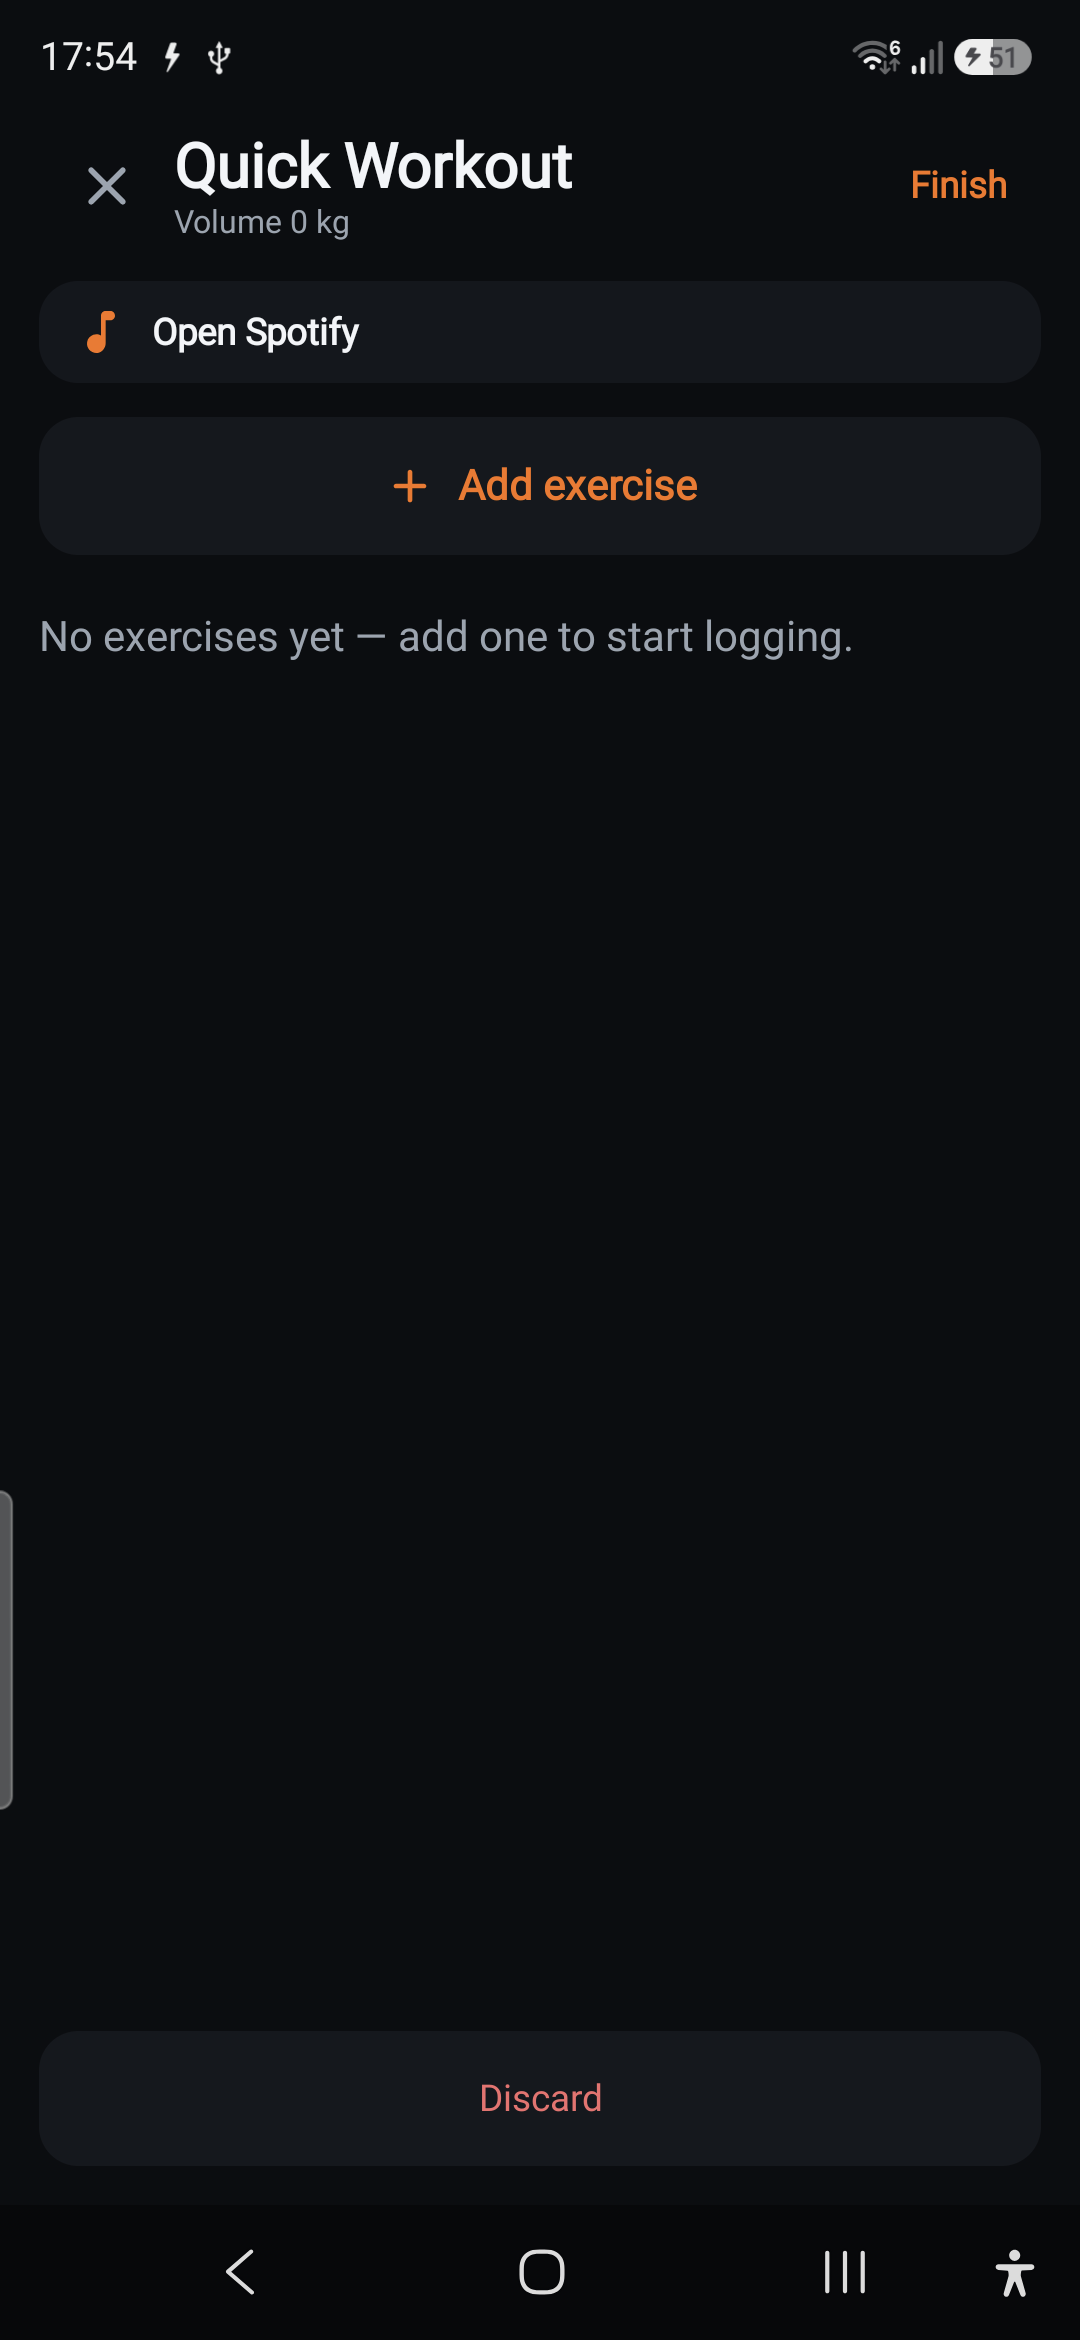
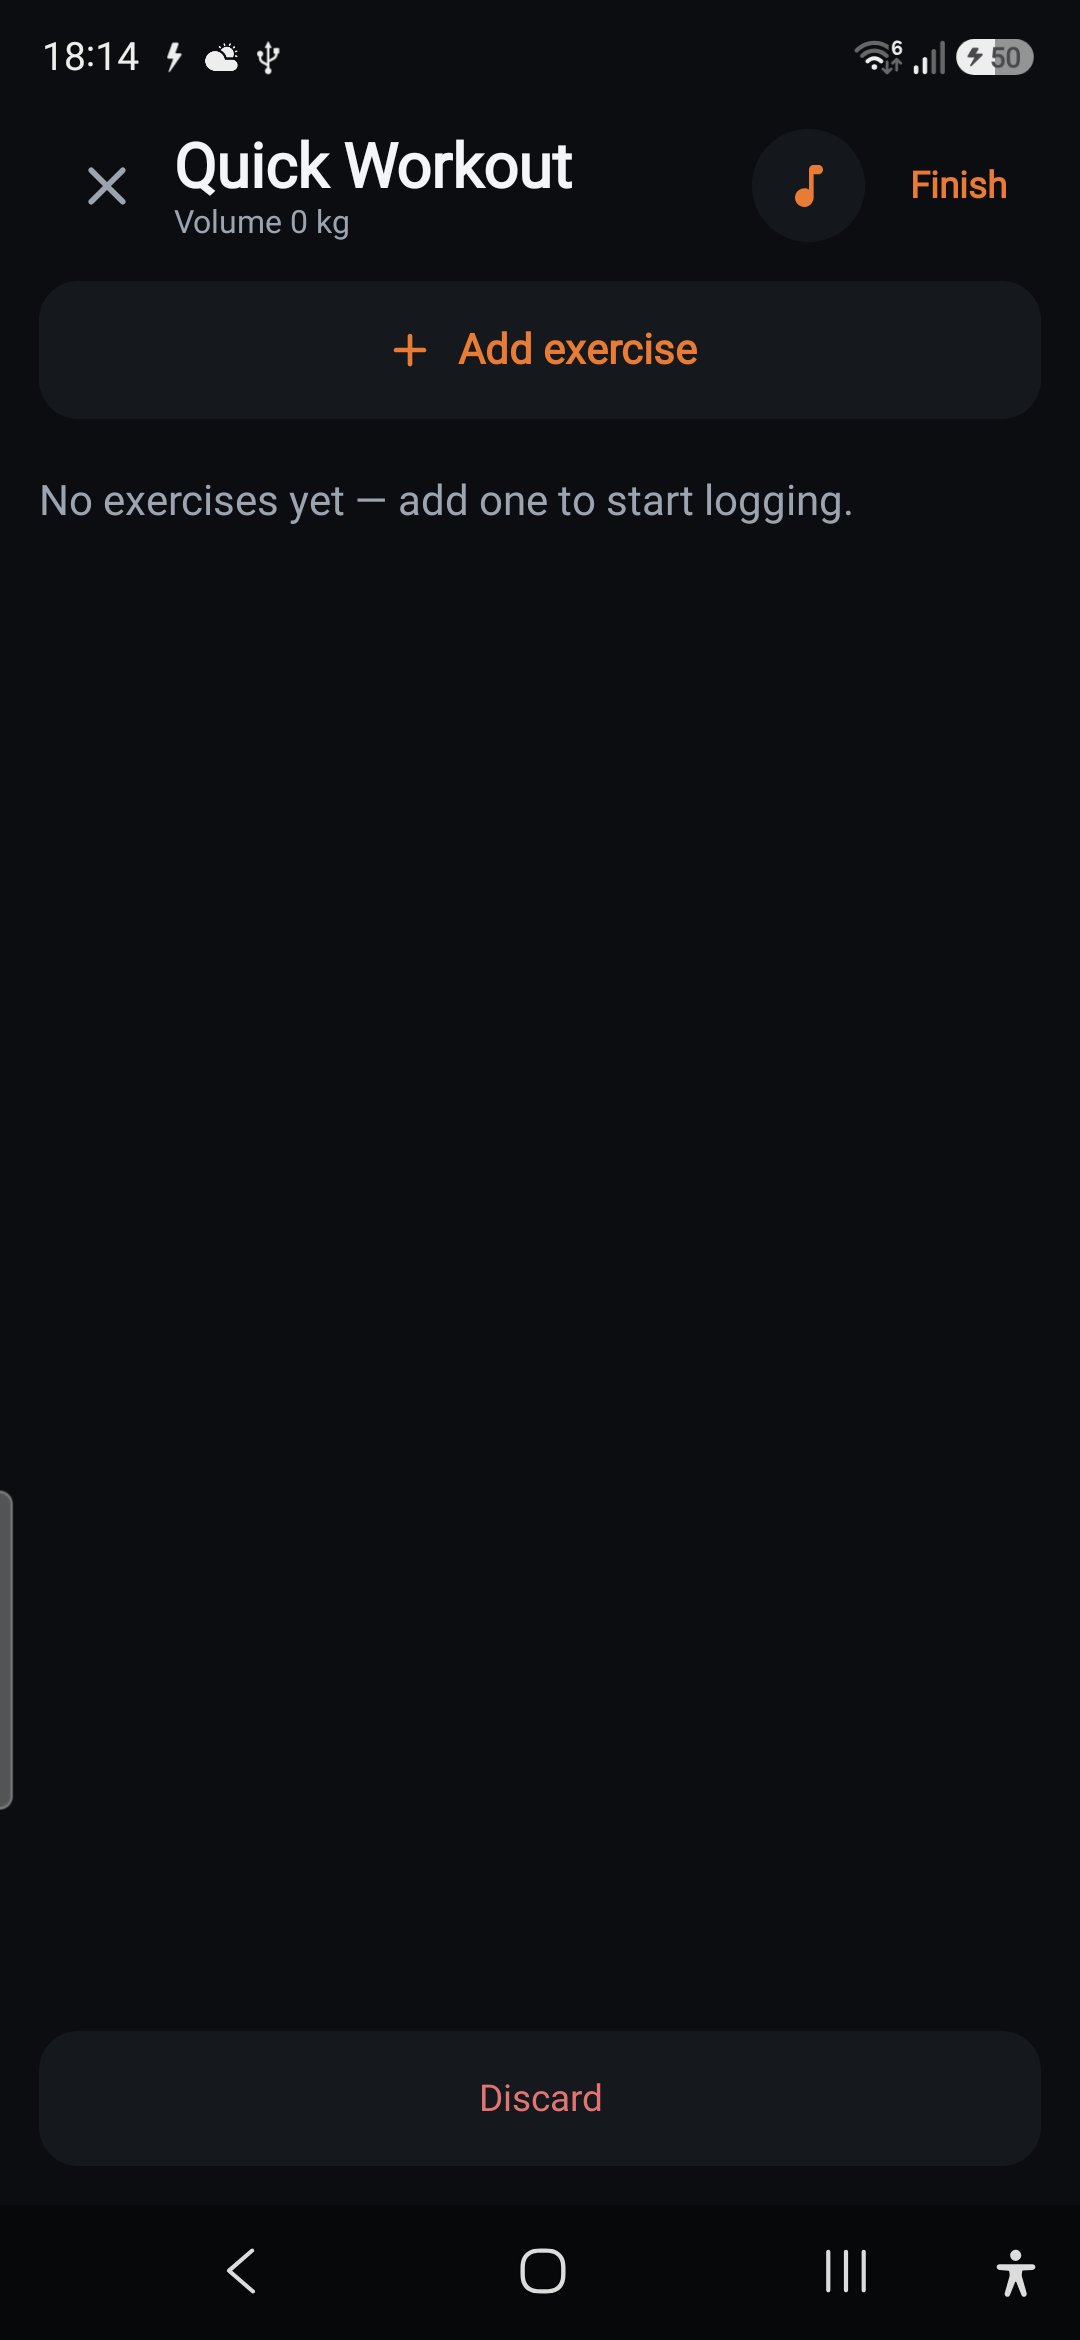
fix(run-mode): R4 — shrink the music control to a small side note button
Replace the full-width "Open Spotify" bar with a compact, icon-only round note
button placed on the side: right edge above the recenter control on the live run
screen, and in the top bar beside Finish on the live lift screen. The connected
(App Remote) state stays a compact prev/play-pause/next row. Same shared component
and controller; behaviour unchanged.

Verified on the A56 on both live screens; assembleDebug builds.

diff --git a/app/src/main/java/com/lukr99/workout/ui/components/MusicMiniControls.kt b/app/src/main/java/com/lukr99/workout/ui/components/MusicMiniControls.kt
@@ -3,9 +3,8 @@ package com.lukr99.workout.ui.components
 import androidx.compose.foundation.background
 import androidx.compose.foundation.clickable
 import androidx.compose.foundation.layout.Arrangement
+import androidx.compose.foundation.layout.Box
 import androidx.compose.foundation.layout.Row
-import androidx.compose.foundation.layout.Column
-import androidx.compose.foundation.layout.padding
 import androidx.compose.foundation.layout.size
 import androidx.compose.foundation.shape.CircleShape
 import androidx.compose.foundation.shape.RoundedCornerShape
@@ -17,7 +16,6 @@ import androidx.compose.material.icons.rounded.SkipNext
 import androidx.compose.material.icons.rounded.SkipPrevious
 import androidx.compose.material3.Icon
 import androidx.compose.material3.MaterialTheme
-import androidx.compose.material3.Text
 import androidx.compose.runtime.Composable
 import androidx.compose.runtime.CompositionLocalProvider
 import androidx.compose.runtime.DisposableEffect
@@ -30,8 +28,6 @@ import androidx.compose.ui.Modifier
 import androidx.compose.ui.draw.clip
 import androidx.compose.ui.graphics.vector.ImageVector
 import androidx.compose.ui.platform.LocalContext
-import androidx.compose.ui.text.font.FontWeight
-import androidx.compose.ui.text.style.TextOverflow
 import androidx.compose.ui.unit.dp
 import com.lukr99.workout.data.music.SpotifyController
 import com.lukr99.workout.data.music.StubSpotifyController
@@ -41,13 +37,12 @@ val LocalSpotify: ProvidableCompositionLocal<SpotifyController> =
     staticCompositionLocalOf { StubSpotifyController }
 
 /**
- * The minimal, shared music control (R4) hosted on **both** the live run and live lift screens. It
- * connects the [SpotifyController] while shown and renders one of two states:
- * - **connected** (App Remote): the current track + previous · play/pause · next;
- * - **otherwise**: a single **Open Spotify** button.
+ * The minimal, shared music control (R4) hosted on **both** the live run and live lift screens —
+ * deliberately a **small side button**. It connects the [SpotifyController] while shown and renders:
+ * - **not connected** (the shipping default): a single round **note** button → Open Spotify;
+ * - **connected** (App Remote): a compact previous · play/pause · next row.
  *
- * No player, search, or queue — by design. With the shipping [StubSpotifyController] only the Open
- * button shows; a real App Remote binding lights up the transport row with no change here.
+ * No player, search, or queue — by design.
  */
 @Composable
 fun MusicMiniControls(modifier: Modifier = Modifier) {
@@ -62,35 +57,14 @@ fun MusicMiniControls(modifier: Modifier = Modifier) {
     }
 
     val current = track
-    Row(
-        modifier.clip(RoundedCornerShape(14.dp))
-            .background(MaterialTheme.colorScheme.surface.copy(alpha = 0.92f))
-            .padding(horizontal = 12.dp, vertical = 8.dp),
-        verticalAlignment = Alignment.CenterVertically,
-        horizontalArrangement = Arrangement.spacedBy(8.dp),
-    ) {
-        Icon(Icons.Rounded.MusicNote, null, tint = MaterialTheme.colorScheme.primary, modifier = Modifier.size(20.dp))
-
-        if (available && current != null) {
-            Column(Modifier.weight(1f)) {
-                Text(
-                    current.title.ifBlank { "Spotify" },
-                    style = MaterialTheme.typography.labelLarge,
-                    fontWeight = FontWeight.SemiBold,
-                    color = MaterialTheme.colorScheme.onSurface,
-                    maxLines = 1,
-                    overflow = TextOverflow.Ellipsis,
-                )
-                if (current.artist.isNotBlank()) {
-                    Text(
-                        current.artist,
-                        style = MaterialTheme.typography.labelSmall,
-                        color = MaterialTheme.colorScheme.onSurfaceVariant,
-                        maxLines = 1,
-                        overflow = TextOverflow.Ellipsis,
-                    )
-                }
-            }
+    if (available && current != null) {
+        Row(
+            modifier.clip(RoundedCornerShape(22.dp))
+                .background(MaterialTheme.colorScheme.surface.copy(alpha = 0.92f))
+                .size(width = 132.dp, height = 40.dp),
+            verticalAlignment = Alignment.CenterVertically,
+            horizontalArrangement = Arrangement.Center,
+        ) {
             TransportButton(Icons.Rounded.SkipPrevious, "Previous", controller::previous)
             TransportButton(
                 if (current.isPlaying) Icons.Rounded.Pause else Icons.Rounded.PlayArrow,
@@ -99,13 +73,18 @@ fun MusicMiniControls(modifier: Modifier = Modifier) {
                 primary = true,
             )
             TransportButton(Icons.Rounded.SkipNext, "Next", controller::next)
-        } else {
-            Text(
-                "Open Spotify",
-                style = MaterialTheme.typography.labelLarge,
-                fontWeight = FontWeight.SemiBold,
-                color = MaterialTheme.colorScheme.onSurface,
-                modifier = Modifier.weight(1f).clickable { controller.openSpotify(context) },
+        }
+    } else {
+        // Small, unobtrusive note button — tap to open Spotify.
+        Box(
+            modifier.size(40.dp).clip(CircleShape)
+                .background(MaterialTheme.colorScheme.surface.copy(alpha = 0.92f))
+                .clickable { controller.openSpotify(context) },
+            contentAlignment = Alignment.Center,
+        ) {
+            Icon(
+                Icons.Rounded.MusicNote, "Open Spotify",
+                tint = MaterialTheme.colorScheme.primary, modifier = Modifier.size(20.dp),
             )
         }
     }
@@ -113,13 +92,12 @@ fun MusicMiniControls(modifier: Modifier = Modifier) {
 
 @Composable
 private fun TransportButton(icon: ImageVector, label: String, onClick: () -> Unit, primary: Boolean = false) {
-    val bg = if (primary) MaterialTheme.colorScheme.primary else MaterialTheme.colorScheme.surfaceVariant
-    val fg = if (primary) MaterialTheme.colorScheme.onPrimary else MaterialTheme.colorScheme.onSurface
-    androidx.compose.foundation.layout.Box(
-        Modifier.size(34.dp).clip(CircleShape).background(bg).clickable(onClick = onClick),
+    val fg = if (primary) MaterialTheme.colorScheme.primary else MaterialTheme.colorScheme.onSurface
+    Box(
+        Modifier.size(40.dp).clip(CircleShape).clickable(onClick = onClick),
         contentAlignment = Alignment.Center,
     ) {
-        Icon(icon, label, tint = fg, modifier = Modifier.size(20.dp))
+        Icon(icon, label, tint = fg, modifier = Modifier.size(if (primary) 24.dp else 20.dp))
     }
 }
 

diff --git a/app/src/main/java/com/lukr99/workout/ui/run/LiveRunScreen.kt b/app/src/main/java/com/lukr99/workout/ui/run/LiveRunScreen.kt
@@ -153,36 +153,32 @@ fun LiveRunScreen(
             )
         }
 
-        if (locationGranted) {
-            CircleIconButton(
-                Icons.Rounded.MyLocation, "Recenter",
-                Modifier.align(Alignment.CenterEnd).padding(end = 16.dp),
-            ) { recenterSignal++ }
+        // Right-edge side stack: the small music button above the recenter control.
+        Column(
+            Modifier.align(Alignment.CenterEnd).padding(end = 16.dp),
+            horizontalAlignment = Alignment.CenterHorizontally,
+            verticalArrangement = Arrangement.spacedBy(12.dp),
+        ) {
+            MusicMiniControls()
+            if (locationGranted) {
+                CircleIconButton(Icons.Rounded.MyLocation, "Recenter", Modifier) { recenterSignal++ }
+            }
         }
 
-        // Bottom: the shared music control sits just above the run controls.
-        Column(
-            Modifier.align(Alignment.BottomCenter).fillMaxWidth().padding(20.dp),
-            horizontalAlignment = Alignment.CenterHorizontally,
-        ) {
-            if (locationGranted) {
-                MusicMiniControls(Modifier.fillMaxWidth())
-                androidx.compose.foundation.layout.Spacer(Modifier.height(12.dp))
-            }
-            Box(Modifier.fillMaxWidth()) {
-                when {
-                    !locationGranted -> LocationRationale(::requestPermissions, Modifier.fillMaxWidth())
-                    idle -> StartButton(Modifier.align(Alignment.Center)) {
-                        if (hasFineLocation()) countdown = 3 else requestPermissions()
-                    }
-                    else -> RecordingControls(
-                        paused = state.phase == RunTracker.Phase.Paused,
-                        onPause = vm::pause,
-                        onResume = vm::resume,
-                        onFinish = { confirmingFinish = true },
-                        modifier = Modifier.fillMaxWidth(),
-                    )
+        // Bottom controls.
+        Box(Modifier.align(Alignment.BottomCenter).fillMaxWidth().padding(20.dp)) {
+            when {
+                !locationGranted -> LocationRationale(::requestPermissions, Modifier.fillMaxWidth())
+                idle -> StartButton(Modifier.align(Alignment.Center)) {
+                    if (hasFineLocation()) countdown = 3 else requestPermissions()
                 }
+                else -> RecordingControls(
+                    paused = state.phase == RunTracker.Phase.Paused,
+                    onPause = vm::pause,
+                    onResume = vm::resume,
+                    onFinish = { confirmingFinish = true },
+                    modifier = Modifier.fillMaxWidth(),
+                )
             }
         }
 

diff --git a/app/src/main/java/com/lukr99/workout/ui/screens/LiveWorkoutScreen.kt b/app/src/main/java/com/lukr99/workout/ui/screens/LiveWorkoutScreen.kt
@@ -138,6 +138,8 @@ fun LiveWorkoutScreen(
                         color = TextMid,
                     )
                 }
+                MusicMiniControls()
+                Spacer(Modifier.width(4.dp))
                 TextButton(onClick = { confirmFinish = true }) {
                     Text("Finish", color = MaterialTheme.colorScheme.primary, fontWeight = FontWeight.SemiBold)
                 }
@@ -151,7 +153,6 @@ fun LiveWorkoutScreen(
                 ),
                 verticalArrangement = Arrangement.spacedBy(12.dp),
             ) {
-                item { MusicMiniControls(Modifier.fillMaxWidth()) }
                 itemsIndexed(entries, key = { _, entry -> entry.id }) { index, entry ->
                     EntryCard(
                         entry = entry,

diff --git a/docs/run-mode/phase-R4-report.md b/docs/run-mode/phase-R4-report.md
@@ -17,10 +17,10 @@ changes**. Additive; strength + R0–R3 untouched.
   Open button shows. `AppContainer.spotify` holds it; manifest `<queries>` resolves the Spotify
   package for the launch intent.
 - **`ui/components/MusicMiniControls`** — one composable, provided app-wide via `LocalSpotify`. It
-  `connect()`s while shown and renders either the **current track + transport row** (when connected) or
-  a single **Open Spotify** button (otherwise).
-- **Hosted on both live screens** — `LiveRunScreen` (a bar just above the run controls) and the strength
-  `LiveWorkoutScreen` (top of the exercise list). Same component, same controller.
+  `connect()`s while shown and is a **small side button**: a single round **♪ note** button (→ Open
+  Spotify) by default, or a compact previous · play/pause · next row when an App Remote is connected.
+- **Hosted on both live screens** — `LiveRunScreen` (right edge, above the recenter control) and the
+  strength `LiveWorkoutScreen` (top bar, beside **Finish**). Same component, same controller.
 - **Secrets hygiene** — `spotify.properties` is git-ignored, ready for the client id / redirect URI.
 
 ## On-device verification (A56)
@@ -29,8 +29,9 @@ changes**. Additive; strength + R0–R3 untouched.
 |---|---|
 | ![run](r4-screens/run-open-spotify.png) | ![lift](r4-screens/lift-open-spotify.png) |
 
-The **Open Spotify** control renders on both live screens; tapping it foregrounds Spotify (or the
-store if it isn't installed). Unit tests green; `assembleDebug` builds.
+A small round **♪ note** button renders on both live screens (run: right edge above recenter; lift:
+top bar by Finish); tapping it foregrounds Spotify (or the store if it isn't installed). Unit tests
+green; `assembleDebug` builds.
 
 ## To enable transport controls (App Remote) — a pure drop-in
 The transport UI is already built; enabling it needs the Spotify SDK + a client id, which only the
